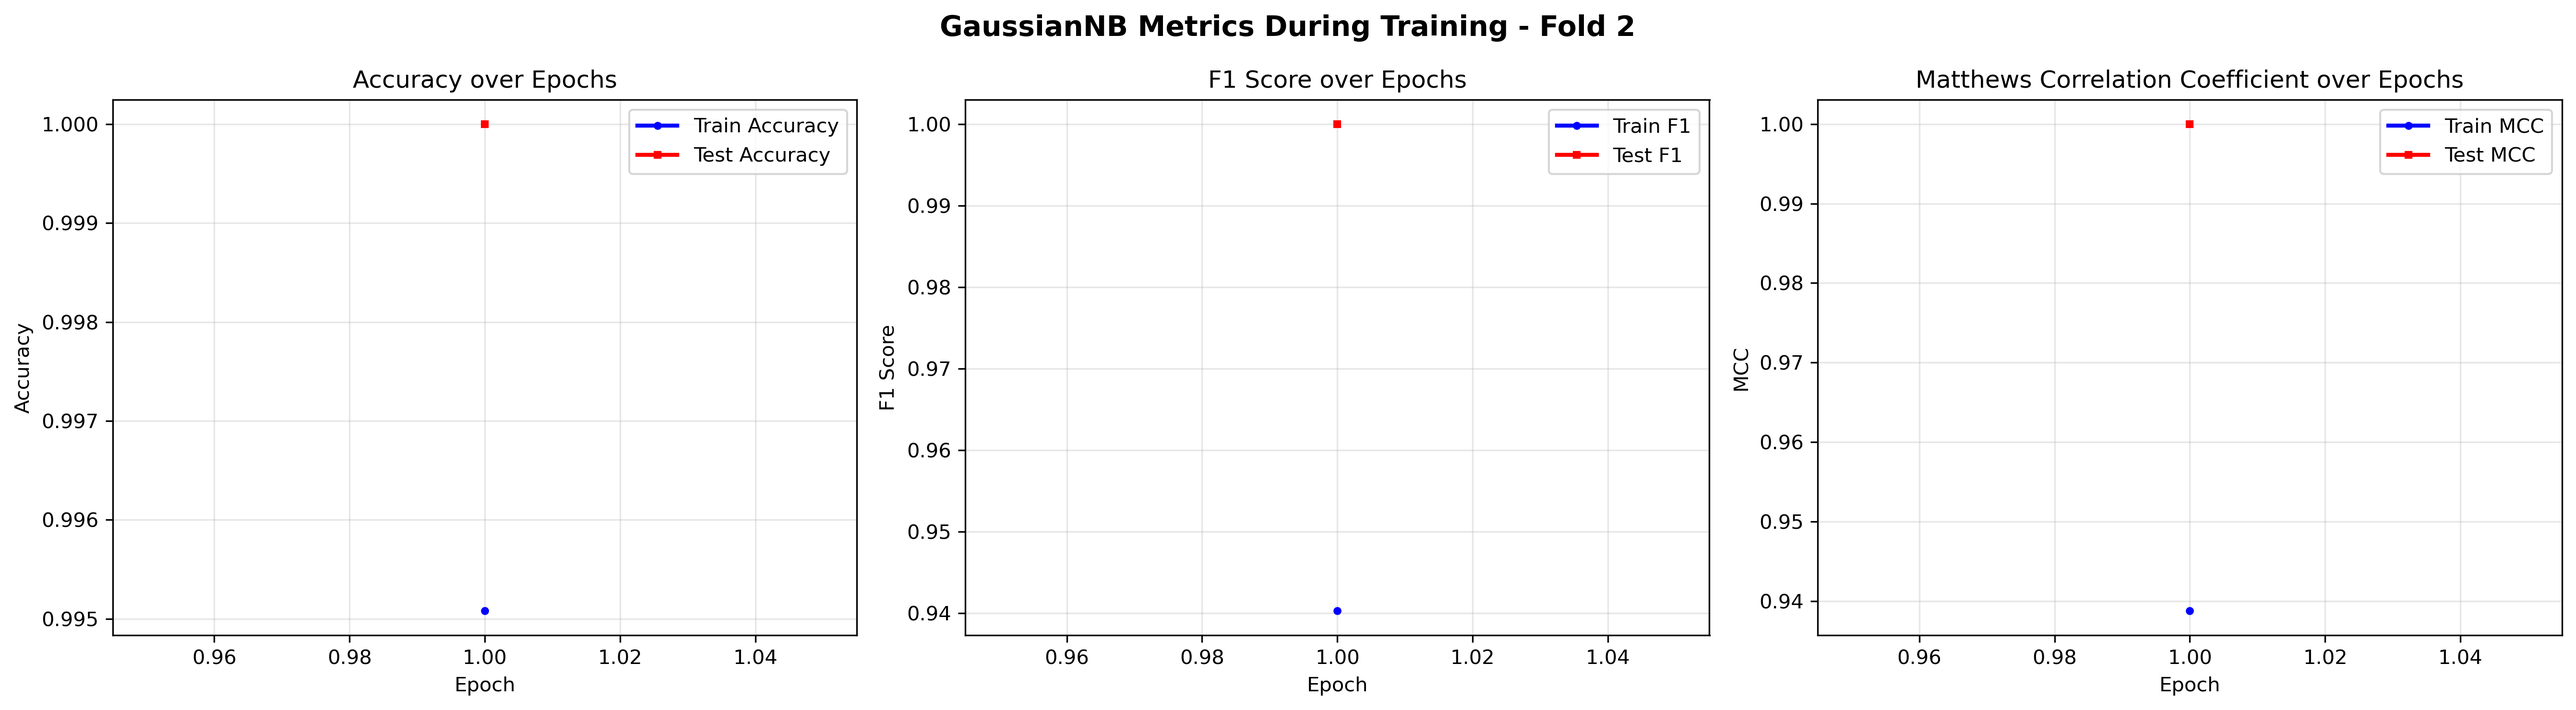
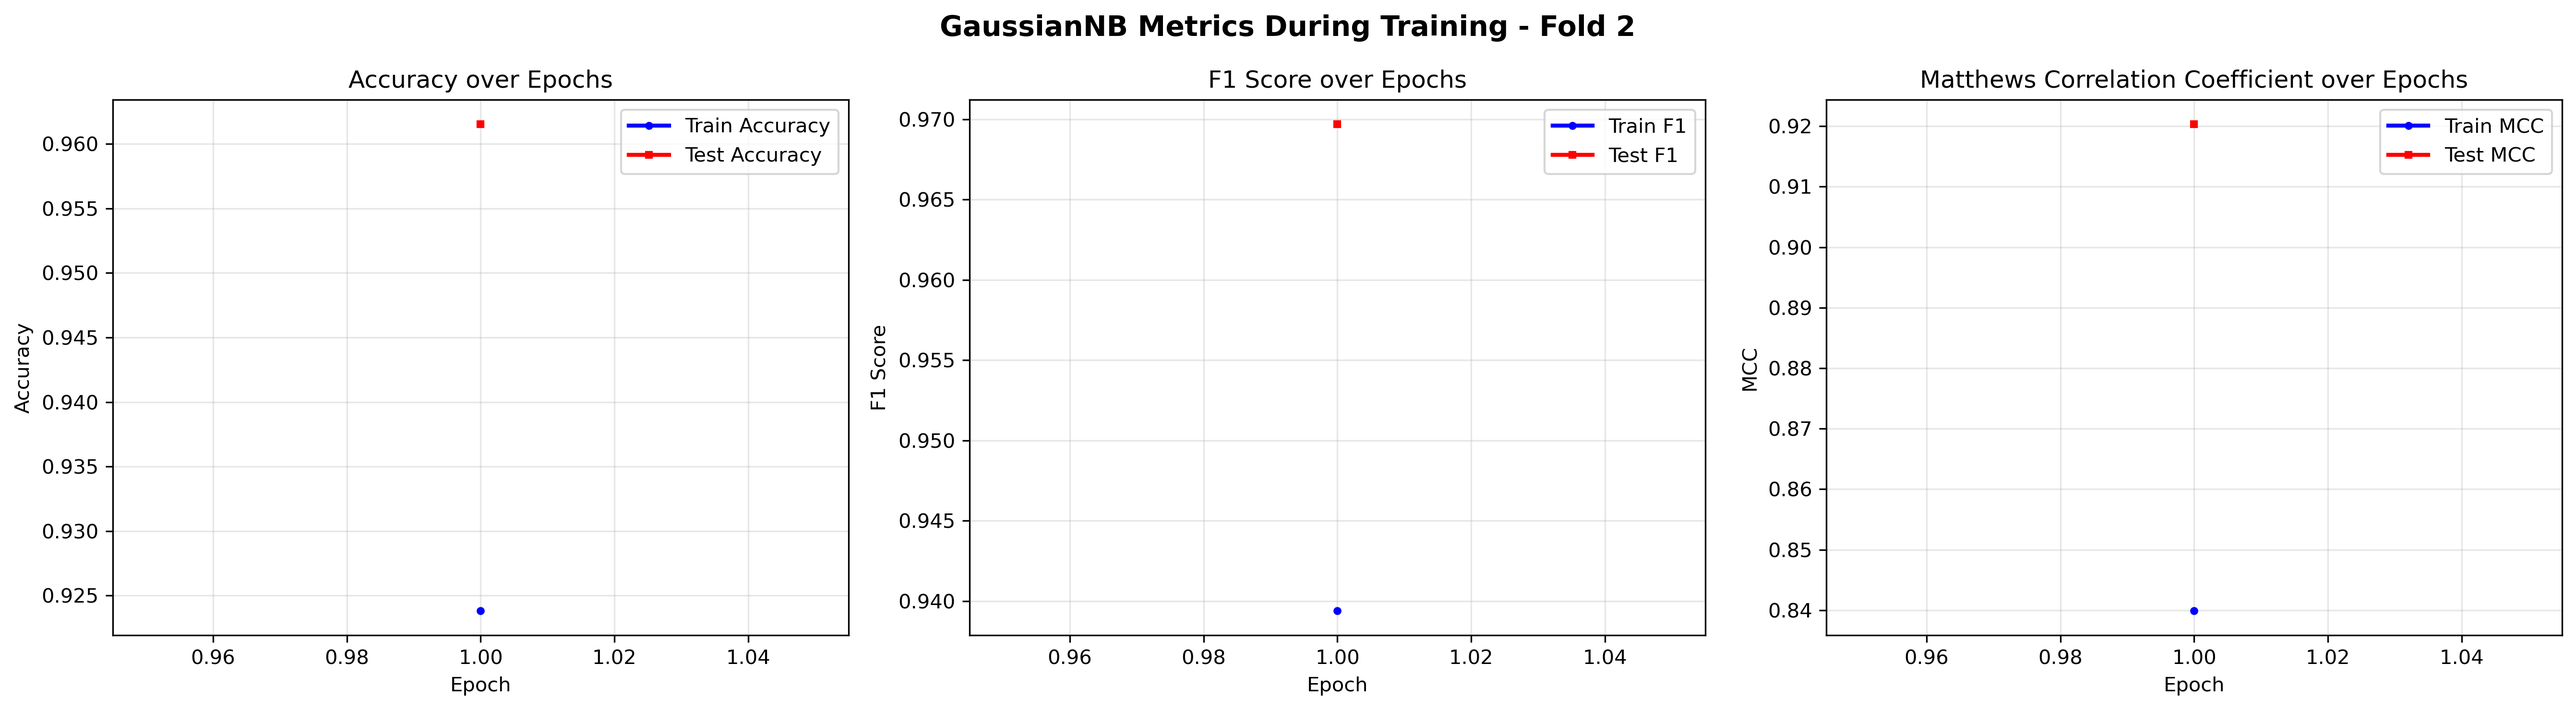
graph database correctly labeled
graph database correctly labeled
model now values correct answers more
ensured the training data is provided correctly
achieved above-zero f1 score

diff --git a/08-gnn copy.py b/08-gnn copy.py
@@ -1,3 +1,5 @@
+
+#Copied on 13.03.2026
 import pandas as pd
 import numpy as np
 import matplotlib.pyplot as plt
@@ -319,14 +321,10 @@ class GCN(torch.nn.Module):
         # self.conv1 = GCNConv(1, hidden_channels)
         # self.conv2 = GCNConv(hidden_channels, hidden_channels)
         # self.conv3 = GCNConv(hidden_channels, 2) #hidden channels
-        
-        # self.conv1 = GCNConv(4, 64)
-        # self.conv2 = GCNConv(64, 128)
-        # self.conv3 = GCNConv(128, 2) #hidden channels
-        self.conv1 = GCNConv(4, 16)
-        self.conv2 = GCNConv(16, 32)
-        self.conv3 = GCNConv(32, 2)
-        #self.soft = Softmax()
+        self.conv1 = GCNConv(4, 64)
+        self.conv2 = GCNConv(64, 128)
+        self.conv3 = GCNConv(128, 2) #hidden channels
+        self.soft = Softmax()
 
     def forward(self, x, edge_index, edge_weight, batch):
         x = self.conv1(x, edge_index, edge_weight)
@@ -341,17 +339,14 @@ class GCN(torch.nn.Module):
 
         # 3. Apply a final classifier
         x = F.dropout(x, p=0.2, training=self.training)
-        #x = self.soft(x)
+        x = self.soft(x)
         
         return x
 def train():
     model.train()
     for data in train_loader:  # Iterate in batches over the training dataset.  Make France great again
          optimizer.zero_grad()  # Clear gradients.
-         #edge_weight = data.edge_attr[:, 0]  # Only use weights, ignore is_consecutive_flag
-         edge_weight = data.edge_attr[:, 0]
-         edge_weight = torch.abs(edge_weight)
-         
+         edge_weight = data.edge_attr[:, 0]  # Only use weights, ignore is_consecutive_flag
          out = model(data.x, data.edge_index, edge_weight, data.batch)  # Perform a single forward pass.
          #out= model(data.x, data.edge_index, data.edge_weight, data.batch)
         #  print(out)
@@ -371,10 +366,7 @@ def test(loader, return_predictions=False):
      
      with torch.no_grad():
          for data in loader:  # Iterate in batches over the training/test dataset.
-             #edge_weight = data.edge_attr[:, 0]  # Only use weights
-             edge_weight = data.edge_attr[:, 0]
-             edge_weight = torch.abs(edge_weight)
-             
+             edge_weight = data.edge_attr[:, 0]  # Only use weights
              out = model(data.x, data.edge_index, edge_weight, data.batch)  #data.edge_weight
              pred = out.argmax(dim=1)  # Use the class with highest probability.
              correct += int((pred == data.y).sum())  # Check against ground-truth labels.
@@ -779,7 +771,7 @@ print(f'Shapiro-Wilk Test: Statistic={stat}, p-value={p_value}')
 #DIVIDING DATASET BY DATES
 #pre,post = filter_script.filter_pandas_dataframe_by_date(df,'rna_pdb_release_dates.csv','2024-10-20T00:00:00+0000')
 #trying to see if the model just learns to say yes every time
-pre,post = filter_script.filter_pandas_dataframe_by_date(df,'rna_pdb_release_dates.csv','2024-10-20T00:00:00+0000')
+post,pre = filter_script.filter_pandas_dataframe_by_date(df,'rna_pdb_release_dates.csv','2010-10-20T00:00:00+0000')
 
 # keep the original row indices so we can map sequences/graphs later
 pre_indices = pre.index.copy()
@@ -791,9 +783,7 @@ print("============================================ DF POST selected date ======
 print(post)
 print("============================================ END ============================================")
 num_gnra_in_post_df= post["gnra"].value_counts()
-num_all_files_in_post_df = post.shape[0]
 num_gnra_in_pre_df= pre["gnra"].value_counts()
-num_all_files_in_pre_df = pre.shape[0]
 y = df['gnra']
 y_pre = pre['gnra']
 y_post = post['gnra']
@@ -939,40 +929,13 @@ df_d['is_positive'] = y
 print("\nUsing StratifiedKFold on pre for GNN training/evaluation, with post as validation set...")
 
 # compute positional mappings from original df index to df_graph rows
-# pos_pre = df.index.get_indexer(pre_indices)
-# pos_post = df.index.get_indexer(post_indices)
+pos_pre = df.index.get_indexer(pre_indices)
+pos_post = df.index.get_indexer(post_indices)
 
 # construct graph-specific DataFrames
-# df_graph_pre = df_graph.iloc[pos_pre].reset_index(drop=True)
-# df_graph_post = df_graph.iloc[pos_post].reset_index(drop=True)
-# pre and post are already the correct row subsets of df (features only, reset index)
-# y_pre and y_post are the corresponding labels (reset index)
+df_graph_pre = df_graph.iloc[pos_pre].reset_index(drop=True)
+df_graph_post = df_graph.iloc[pos_post].reset_index(drop=True)
 
-scaler_pre = StandardScaler()
-pre_std = pd.DataFrame(scaler_pre.fit_transform(pre), columns=pre.columns)
-
-scaler_post = StandardScaler()  
-post_std = pd.DataFrame(scaler_post.fit_transform(post), columns=post.columns)
-
-df_graph_pre = pre_std.copy()
-df_graph_pre['seq'] = [seqs[i] for i in pre_indices] if hasattr(pre_indices, '__iter__') else [''] * len(pre_std)
-df_graph_pre['is_positive'] = y_pre.values
-
-df_graph_post = post_std.copy()
-df_graph_post['seq'] = [seqs[i] for i in post_indices] if hasattr(post_indices, '__iter__') else [''] * len(post_std)
-df_graph_post['is_positive'] = y_post.values
-
-# Verify immediately
-print("df_graph_pre class balance:", df_graph_pre['is_positive'].value_counts())
-print("df_graph_post class balance:", df_graph_post['is_positive'].value_counts())
-
-
-
-print(f"previously gathered data \n gnra in post: {num_gnra_in_post_df} len post: {num_all_files_in_post_df} \n gnra in post: {num_gnra_in_pre_df} len post: {num_all_files_in_pre_df}")
-print("df_graph_pre class balance:")
-print(df_graph_pre['is_positive'].value_counts())
-print("df_graph_post class balance:")
-print(df_graph_post['is_positive'].value_counts())
 print(f"Total graphs in pre: {len(df_graph_pre)}")
 print(f"Total graphs in post (fixed validation): {len(df_graph_post)}")
 
@@ -1121,10 +1084,9 @@ else:
 for fold, (train_idx, val_idx) in enumerate(fold_splits):
     print(f"\n--- GNN Fold {fold + 1}/{n_splits} ---")
 
-    # df_train = df_graph.iloc[train_idx].reset_index(drop=True)
-    # df_test = df_graph.iloc[val_idx].reset_index(drop=True)
-    df_train = df_graph_pre.iloc[train_idx].reset_index(drop=True)
-    df_test  = df_graph_pre.iloc[val_idx].reset_index(drop=True)
+    df_train = df_graph.iloc[train_idx].reset_index(drop=True)
+    df_test = df_graph.iloc[val_idx].reset_index(drop=True)
+
     # After creating df_train, before initializing the model
     pos = (df_train['is_positive'] == 1).sum()
     neg = (df_train['is_positive'] == 0).sum()
@@ -1132,7 +1094,7 @@ for fold, (train_idx, val_idx) in enumerate(fold_splits):
     total = len(df_train)
 
     # Directly use the ratio as the positive class weight
-    pos_weight_value = (neg / pos)
+    pos_weight_value = neg / pos
     print(f"Positives: {pos}, Negatives: {neg}, Pos weight: {pos_weight_value:.2f}x")
 
     class_weights = torch.tensor([1.0, pos_weight_value], dtype=torch.float)
@@ -1158,7 +1120,6 @@ for fold, (train_idx, val_idx) in enumerate(fold_splits):
     # Per-fold early stopping
     best_model_state = None
     best_acc = 0.0
-    best_f1 = 0.0
     no_improve_counter = 0
     max_no_improve = 10
     
@@ -1198,18 +1159,12 @@ for fold, (train_idx, val_idx) in enumerate(fold_splits):
         epoch_metrics['train_mcc'].append(train_mcc)
         epoch_metrics['test_mcc'].append(test_mcc)
 
-        if test_f1 > best_f1:  # or test_mcc > best_mcc
-            best_f1 = test_f1
+        if test_acc > best_acc:
+            best_acc = test_acc
             best_model_state = copy.deepcopy(model.state_dict())
             no_improve_counter = 0
         else:
             no_improve_counter += 1
-        # if test_acc > best_acc:
-        #     best_acc = test_acc
-        #     best_model_state = copy.deepcopy(model.state_dict())
-        #     no_improve_counter = 0
-        # else:
-        #     no_improve_counter += 1
 
         print(f'Epoch: {epoch:03d}, Train Acc: {train_acc:.4f}, Test Acc: {test_acc:.4f}, Test F1: {test_f1:.4f}, Test MCC: {test_mcc:.4f}')
 

diff --git a/08b-filter-pdb-by-date.py b/08b-filter-pdb-by-date.py
@@ -187,7 +187,7 @@ def filter_pandas_dataframe_by_date(df, dates_csv, cutoff_date):
     after_df = pd.concat([after_df, pd.DataFrame(after_rows)], ignore_index=True)
     print(f"Total entries in dataframe: {len(df)}")
     print(f"Entries before cutoff date: {len(pre_df)}")
-    print(f"Entries before cutoff date: {len(after_df)}")
+    print(f"Entries after cutoff date: {len(after_df)}")
     print(f"Lost IDs (not found in release dates): {lost_ids}")
     return pre_df, after_df
 
